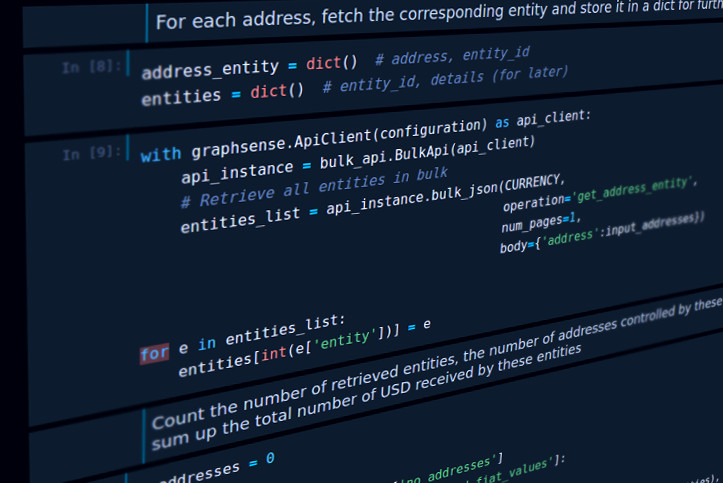
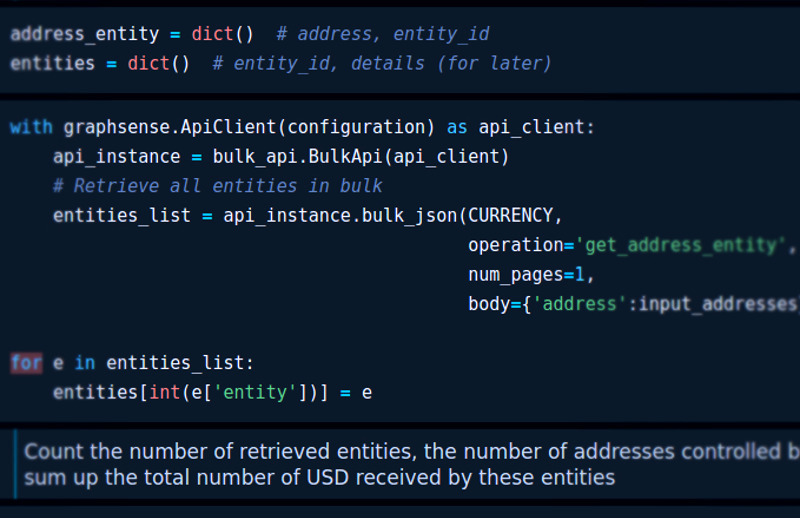
update wording, add some fancy css stuff

Changed region(s): [[0.0, 0.0, 1.0, 1.0], [0.8824, 0.1553, 1.0, 0.2174], [0.5477, 0.6522, 0.6086, 0.6832]]

diff --git a/index.html b/index.html
@@ -49,12 +49,12 @@ the leading open source Cryptoasset Analytics platform
 </section>
 
 <section class="container-sm">
-    <div class="row d-flex flex-md-row flex-sm-row-reverse align-items-center justify-content-between">
+    <div class="row d-flex flex-md-row flex-sm-row-reverse align-items-center justify-content-center">
         <div class="col-md-3">
             <h3>Dashboard</h3>
-            <p>We provide our services via a dashboard, which investigators can easily visualize crypto transaction flows. </p>
+            <p>We provide our services via a dashboard, where investigators can easily visualize crypto transaction flows.</p>
         </div>
-        <div class="col-md-8">
+        <div class="col-md-7 scene-right">
             
 
 
@@ -70,12 +70,12 @@ the leading open source Cryptoasset Analytics platform
     </div>
 </section>
 <section class="container-sm mt-4">
-    <div class="row d-flex flex-row-reverse align-items-center justify-content-between">
+    <div class="row d-flex flex-row-reverse align-items-center justify-content-center">
         <div class="col-md-3">
             <h3>Programmatic access</h3>
-            <p>But also an API for mass requests and automated forensics. mit jupyter notebook</p>
+            <p>Customers can also use an API for mass requests and automated forensics.</p>
         </div>
-        <div class="col-md-8">
+        <div class="col-md-7 scene-left">
             
 
 
@@ -83,7 +83,7 @@ the leading open source Cryptoasset Analytics platform
 
 
 <div class="feature-image">
-    <img class="w-100" src="/assets/resized/code-480x321.jpg" alt="" srcset="/assets/resized/code-480x321.jpg 480w,/assets/resized/code-320x214.jpg 320w," />
+    <img class="w-100" src="/assets/resized/code-480x311.jpg" alt="" srcset="/assets/resized/code-480x311.jpg 480w,/assets/resized/code-320x207.jpg 320w," />
 
 </div>
 
@@ -135,14 +135,12 @@ the leading open source Cryptoasset Analytics platform
         </div>
     </div>
     <div class="row">
-        <p>We supports major cryptocurrencies like Bitcoin, Bitcoin Cash, Litecoin, and Zcash as well as Ethereum.</p>
+        <p>We support major cryptocurrencies like Bitcoin, Bitcoin Cash, Litecoin, and Zcash as well as Ethereum.</p>
     </div>
 </section>
 <section class="container-sm mt-4">
     <h3>More info</h3>
-    <p>We offers a revolutionary forensics solution for companies in the security sector as well as law enforcement agencies and delivers therefore a crucial contribution to fraud prevention and risk-monitoring, to help making cryptocurrencies more secure. It is important for us to emphasize that our solution is built on full-data sovereignty, algorithmic transparency and scalability, hosted in Europe. Together with our partners we gow a huge database of attribution tags to provide more data for certain crypto wallets and clusters.</p>
-
-    + 3rd party tags!!! instead of text
+    <p>Our solution is built on full-data sovereignty, algorithmic transparency and scalability, hosted in Europe. Together with our partners we grow a joined database of attribution tags to provide more information about certain addresses an clusters.</p>
 </section>
 
 <section class="packages" id="packages">
@@ -264,7 +262,12 @@ the leading open source Cryptoasset Analytics platform
             </div>
         </div>
         <div class="packages-banner">
-            <span>Ready for order in Spring 2022!</span>
+            <div>Ready for order in Spring 2022!</div>
+        </div>
+    </div>
+    <div class="container-lg mt-4">
+        <div class="d-flex justify-content-center mt-5">
+            <a class="btn btn-primary btn-lg my-5" role="button" aria-disabled="true" href="mailto:2022@ikna.io">Contact us for more details:<br /><strong>2022@ikna.io</strong></a>
         </div>
     </div>
 </section>
@@ -311,8 +314,8 @@ the leading open source Cryptoasset Analytics platform
       <div class="footer-col col-4 text-end d-flex align-items-end justify-content-end">
           <ul>
           <li><a href="/imprint">Imprint</a></li>
-          <li><a href="/privacy">Privacy</a></li>
-          <li><a href="/terms">Terms of service</a></li>
+          <!--li><a href="/privacy">Privacy</a></li-->
+          <!--li><a href="/terms">Terms of service</a></li-->
           </ul>
       </div>
     </div>

diff --git a/assets/main.css b/assets/main.css
@@ -8431,7 +8431,7 @@ div.frame {
   flex-direction: column;
   max-width: 1920px;
   margin: 0 auto;
-  height: 100%;
+  min-height: 100vh;
   box-shadow: 0 0 100px rgba(0, 0, 0, 0.5);
 }
 
@@ -8527,8 +8527,22 @@ hr {
 .feature-image, .bio-image {
   width: 100%;
   border-radius: 0.25rem;
-  box-shadow: 0 0.1rem 0.55rem rgba(206, 232, 232, 0.55);
   overflow: hidden;
+  border: 1px solid rgba(255, 255, 255, 0.1);
+}
+
+.scene-left, .scene-right {
+  perspective: 500px;
+}
+
+.scene-left .feature-image, .scene-left .bio-image {
+  transform: rotateY(8deg);
+  box-shadow: -2px 0 0.1rem rgba(206, 232, 232, 0.55);
+}
+
+.scene-right .feature-image, .scene-right .bio-image {
+  transform: rotateY(-8deg);
+  box-shadow: 2px 0 0.1rem rgba(206, 232, 232, 0.55);
 }
 
 .text-body {
@@ -8630,8 +8644,15 @@ section.packages .packages-banner {
   text-align: center;
   font-weight: bold;
   font-size: 1.32rem;
+  transition: transform 1s;
+  transform: rotate(0);
 }
-
+section.packages .packages-banner:hover {
+  transform: rotate(-1deg);
+}
+section.packages .btn {
+  box-shadow: inset 0 1px 0 rgba(255, 255, 255, 0.15), 0 1px 1px rgba(0, 0, 0, 0.075);
+}
 .jobs {
   background-color: #202728;
   min-height: 22rem;

diff --git a/about.html b/about.html
@@ -191,8 +191,8 @@ Dr. Ross King and Dr. Bernhard Haslhofer, world leaders in the field of cryptocu
       <div class="footer-col col-4 text-end d-flex align-items-end justify-content-end">
           <ul>
           <li><a href="/imprint">Imprint</a></li>
-          <li><a href="/privacy">Privacy</a></li>
-          <li><a href="/terms">Terms of service</a></li>
+          <!--li><a href="/privacy">Privacy</a></li-->
+          <!--li><a href="/terms">Terms of service</a></li-->
           </ul>
       </div>
     </div>

diff --git a/imprint.html b/imprint.html
@@ -114,8 +114,8 @@ Consumers have the possibility to submit complaints to the online dispute resolu
       <div class="footer-col col-4 text-end d-flex align-items-end justify-content-end">
           <ul>
           <li><a href="/imprint">Imprint</a></li>
-          <li><a href="/privacy">Privacy</a></li>
-          <li><a href="/terms">Terms of service</a></li>
+          <!--li><a href="/privacy">Privacy</a></li-->
+          <!--li><a href="/terms">Terms of service</a></li-->
           </ul>
       </div>
     </div>

diff --git a/404.html b/404.html
@@ -84,8 +84,8 @@
       <div class="footer-col col-4 text-end d-flex align-items-end justify-content-end">
           <ul>
           <li><a href="/imprint">Imprint</a></li>
-          <li><a href="/privacy">Privacy</a></li>
-          <li><a href="/terms">Terms of service</a></li>
+          <!--li><a href="/privacy">Privacy</a></li-->
+          <!--li><a href="/terms">Terms of service</a></li-->
           </ul>
       </div>
     </div>

diff --git a/jobs.html b/jobs.html
@@ -79,8 +79,8 @@
       <div class="footer-col col-4 text-end d-flex align-items-end justify-content-end">
           <ul>
           <li><a href="/imprint">Imprint</a></li>
-          <li><a href="/privacy">Privacy</a></li>
-          <li><a href="/terms">Terms of service</a></li>
+          <!--li><a href="/privacy">Privacy</a></li-->
+          <!--li><a href="/terms">Terms of service</a></li-->
           </ul>
       </div>
     </div>

diff --git a/jobs/junior_op.html b/jobs/junior_op.html
@@ -78,8 +78,8 @@
       <div class="footer-col col-4 text-end d-flex align-items-end justify-content-end">
           <ul>
           <li><a href="/imprint">Imprint</a></li>
-          <li><a href="/privacy">Privacy</a></li>
-          <li><a href="/terms">Terms of service</a></li>
+          <!--li><a href="/privacy">Privacy</a></li-->
+          <!--li><a href="/terms">Terms of service</a></li-->
           </ul>
       </div>
     </div>

diff --git a/privacy.html b/privacy.html
@@ -73,8 +73,8 @@
       <div class="footer-col col-4 text-end d-flex align-items-end justify-content-end">
           <ul>
           <li><a href="/imprint">Imprint</a></li>
-          <li><a href="/privacy">Privacy</a></li>
-          <li><a href="/terms">Terms of service</a></li>
+          <!--li><a href="/privacy">Privacy</a></li-->
+          <!--li><a href="/terms">Terms of service</a></li-->
           </ul>
       </div>
     </div>

diff --git a/terms.html b/terms.html
@@ -73,8 +73,8 @@
       <div class="footer-col col-4 text-end d-flex align-items-end justify-content-end">
           <ul>
           <li><a href="/imprint">Imprint</a></li>
-          <li><a href="/privacy">Privacy</a></li>
-          <li><a href="/terms">Terms of service</a></li>
+          <!--li><a href="/privacy">Privacy</a></li-->
+          <!--li><a href="/terms">Terms of service</a></li-->
           </ul>
       </div>
     </div>
